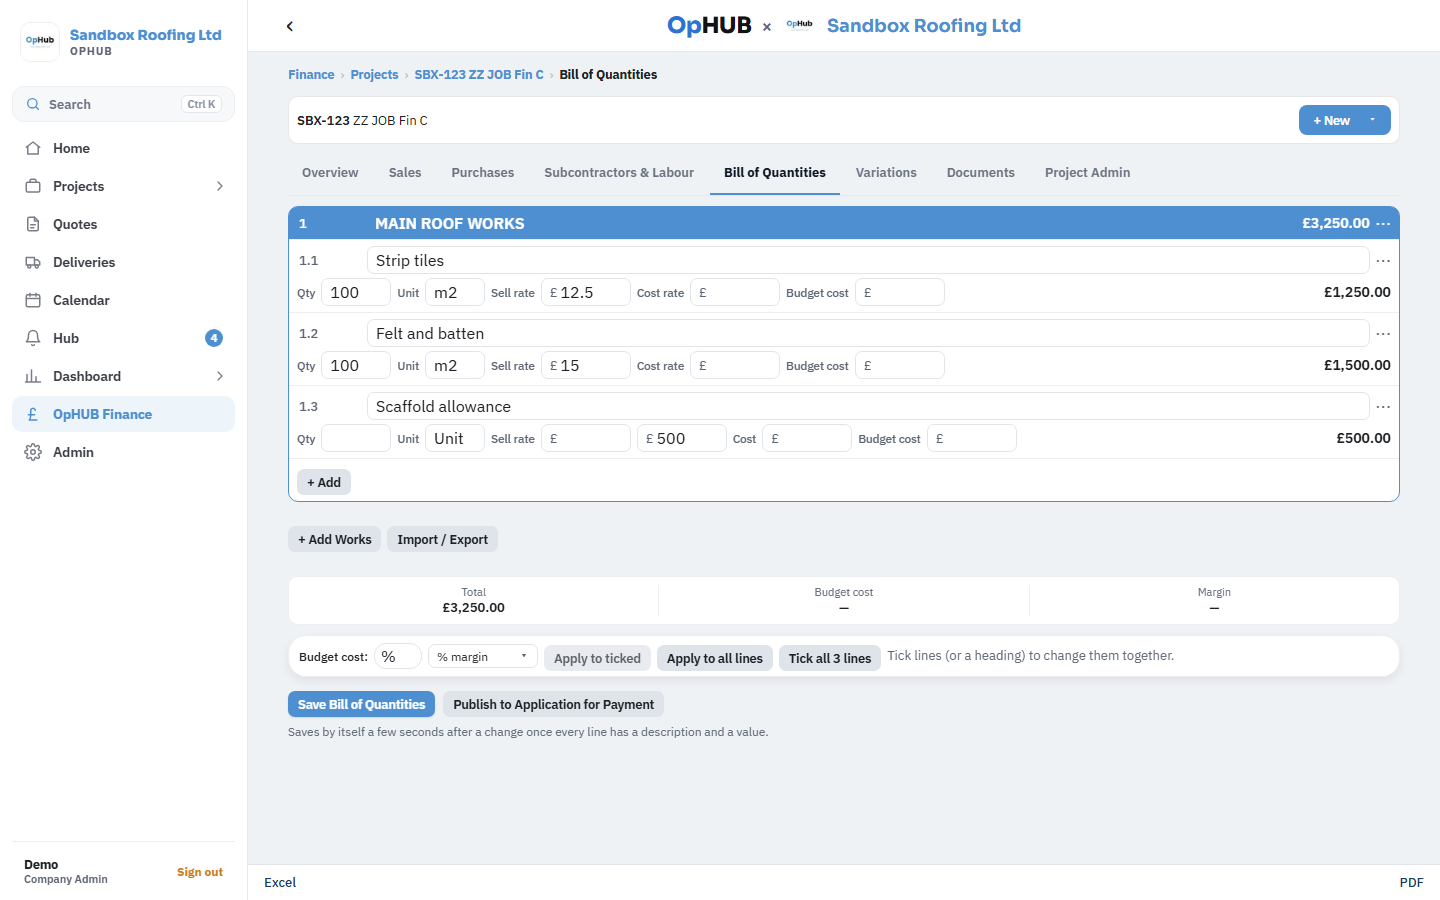
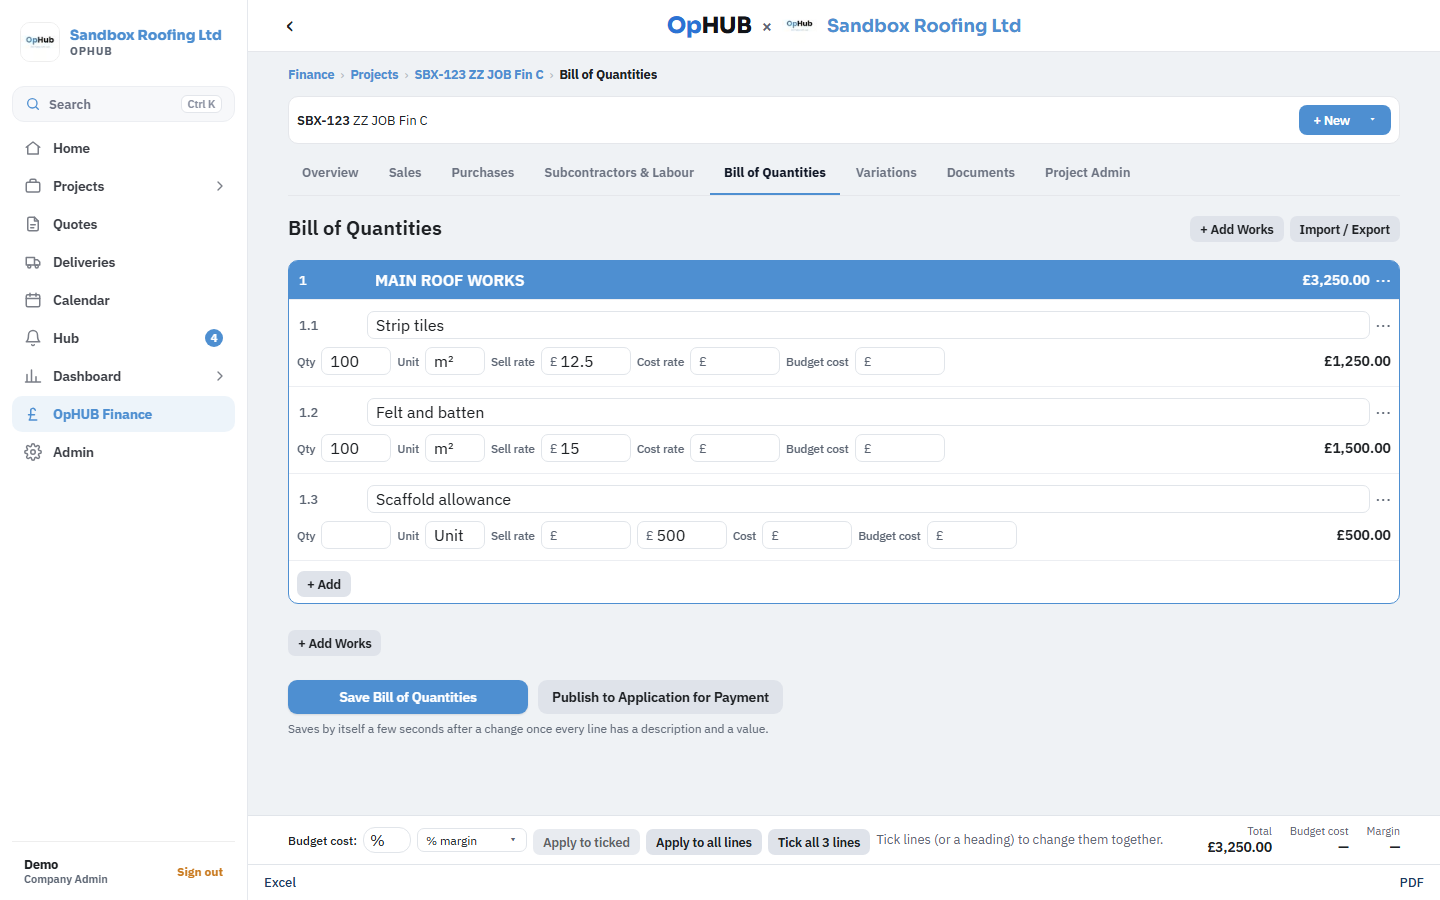
Bill of Quantities: page header, more room, budget cost as a footer line, bigger Save; typing m2 or m3 gives m² or m³. Finance bar fits on a phone.
Claude-Session: https://claude.ai/code/session_012KhfNvBEbifMJmPdX7yZfp

diff --git a/app-native/src/app/(app)/fin/job/[id]/boq.tsx b/app-native/src/app/(app)/fin/job/[id]/boq.tsx
@@ -261,10 +261,36 @@ function Editor({ id, initial, me }: { id: string; initial: Row[]; me: Profile }
           } catch { toast('Could not read that file.'); } finally { setImporting(false); }
         };
   const bqLast = async () => { const u = await openDocLink('finance-docs', (lastUp?.path as string)); if (u) viewDoc(u, lastUp?.name); else toast('Could not open the file.'); };
+  const addWorks = <Button small kind="ghost" title="+ Add Works" onPress={async () => { const k = await chooseAction('Add Works', [{ key: 'section', label: 'Section' }, { key: 'item', label: 'Item' }]); if (k) add(k); }} />;
+  // Budget cost: margin / mark-up for all or the ticked lines, and changes to the ticked lines together (902).
+  const costTools = (
+        <View style={{ flexDirection: 'row', flexWrap: 'wrap', gap: 6, alignItems: 'center' }}>
+          <Text style={{ fontWeight: '500', fontSize: 12, color: base.ink }}>Budget cost:</Text>
+          <TextInput value={pct} onChangeText={(v) => setPct(v.replace(/[^0-9.]/g, ''))} placeholder="%" keyboardType="decimal-pad" style={[box, { width: 48, height: 26, paddingVertical: 2, paddingHorizontal: 6, fontSize: 12 }]} />
+          <SelectBox value={basis} options={[['margin', '% margin'], ['markup', '% mark-up']]} onChange={setBasis} compact style={{ marginBottom: 0, width: 110 }} title="Margin or mark-up" />
+          <Button small kind="ghost" title={ticked.length ? `Apply to ${ticked.length} ticked` : 'Apply to ticked'} disabled={!ticked.length} onPress={() => applyPct(true)} />
+          <Button small kind="ghost" title="Apply to all lines" onPress={() => applyPct(false)} />
+          {ticked.length ? (
+            <>
+              <Text style={{ fontWeight: '500', color: base.ink }}>{ticked.length} ticked</Text>
+              {subs.length > 0 && <SelectBox value="" placeholder="Set plot…" title="Plot for the ticked lines" options={[['-', 'No plot'], ...subs.map((s) => [s.id, s.short] as [string, string])]} onChange={(k) => setRows((rs) => rs.map((r, j) => (ticked.includes(j) ? { ...r, sub: k === '-' ? '' : k } : r)))} style={{ marginBottom: 0, width: 170 }} />}
+              <Button small kind="ghost" title="Set unit" onPress={async () => { const u = await promptText('Unit for the ticked lines (e.g. m², nr, item)', ''); if (u !== null) setRows((rs) => rs.map((r, j) => (ticked.includes(j) ? { ...r, unit: u.trim() } : r))); }} />
+              <Button small kind="ghost" title="Clear costs" onPress={() => setRows((rs) => rs.map((r, j) => (ticked.includes(j) ? { ...r, cost: '', cost_basis: null, cost_pct: null } : r)))} />
+              <Button small kind="ghost" title="Remove" onPress={async () => { if (await confirmAsk(`Remove ${ticked.length} ticked line${ticked.length === 1 ? '' : 's'}?`, 'Remove')) setRows((rs) => rs.filter((_, j) => !ticked.includes(j))); }} />
+              <Button small kind="ghost" title="Untick all" onPress={() => tick(itemIdx, false)} />
+            </>
+          ) : itemIdx.length ? <><Button small kind="ghost" title={`Tick all ${itemIdx.length} lines`} onPress={() => tick(itemIdx, true)} /><Muted>Tick lines (or a heading) to change them together.</Muted></> : null}
+        </View>
+  );
   return (
     <View style={{ flex: 1 }}>
     <ScrollView style={{ flex: 1 }} contentContainerStyle={page(1100)} keyboardShouldPersistTaps="handled">
       <Stack.Screen options={{ title: 'Bill of Quantities' }} />
+      {/* The page's own header (Andy, 2 Nov 2026). */}
+      <View style={{ flexDirection: 'row', flexWrap: 'wrap', alignItems: 'center', gap: 10, marginTop: desk ? 6 : 0, marginBottom: desk ? 18 : 12 }}>
+        <Text style={{ flexGrow: 1, fontSize: desk ? 20 : 17, fontWeight: '600', color: base.ink }}>Bill of Quantities</Text>
+        <View style={{ flexDirection: 'row', gap: 6 }}>{addWorks}{desk && ioBtn}</View>
+      </View>
       {imp && <ImportPreview imp={imp} setImp={setImp} onUse={async (lines) => {
         if (rows.some((x) => String(x.description || '').trim()) && !(await confirmAsk('Replace the lines here with the imported breakdown?', 'Replace'))) return;
         setRows(boqRows(lines).map((r) => ({ ...r, _k: key(), sub: '' }))); setImp(null);
@@ -272,7 +298,7 @@ function Editor({ id, initial, me }: { id: string; initial: Row[]; me: Profile }
 
       {/* Each section sits in its own border (Andy, 1 Nov 2026); lines before any section don't. */}
       {rows.reduce<number[][]>((gs, r, i) => { if (r.kind === 'section' || !gs.length) gs.push([i]); else gs[gs.length - 1].push(i); return gs; }, []).map((g) => (
-      <View key={rows[g[0]]._k} style={rows[g[0]].kind === 'section' ? { borderWidth: 1.5, borderColor: t.brand1, borderRadius: 10, backgroundColor: base.card, marginBottom: 12, zIndex: rows.length - g[0] } : undefined}>
+      <View key={rows[g[0]]._k} style={rows[g[0]].kind === 'section' ? { borderWidth: 1.5, borderColor: t.brand1, borderRadius: 10, backgroundColor: base.card, marginBottom: desk ? 18 : 12, zIndex: rows.length - g[0] } : undefined}>
       {g.map((i) => {
         const r = rows[i];
         const head = r.kind === 'section' || r.kind === 'subsection';
@@ -292,7 +318,7 @@ function Editor({ id, initial, me }: { id: string; initial: Row[]; me: Profile }
         };
         return (
           <Fragment key={r._k}>
-          <View style={{ borderWidth: 1, borderColor: sec ? t.brand1 : r.kind === 'subsection' ? '#DFE3EA' : base.cardLine, borderRadius: 8, paddingVertical: head ? (desk ? 2 : 4) : desk ? 6 : 10, paddingHorizontal: 8, marginBottom: 6, backgroundColor: sec ? t.brand1 : r.kind === 'subsection' ? '#DFE3EA' : base.card, marginLeft: r.kind === 'subsection' ? 10 : 0, ...(rows[g[0]].kind === 'section' ? { marginBottom: 0, marginLeft: 0, borderRadius: 0, borderWidth: 0, borderBottomWidth: 1, borderBottomColor: base.cardLine, ...(sec ? { borderTopLeftRadius: 8, borderTopRightRadius: 8 } : null) } : null), zIndex: rows.length - i }}>
+          <View style={{ borderWidth: 1, borderColor: sec ? t.brand1 : r.kind === 'subsection' ? '#DFE3EA' : base.cardLine, borderRadius: 8, paddingVertical: head ? (desk ? 5 : 4) : desk ? 11 : 10, paddingHorizontal: 8, marginBottom: 6, backgroundColor: sec ? t.brand1 : r.kind === 'subsection' ? '#DFE3EA' : base.card, marginLeft: r.kind === 'subsection' ? 10 : 0, ...(rows[g[0]].kind === 'section' ? { marginBottom: 0, marginLeft: 0, borderRadius: 0, borderWidth: 0, borderBottomWidth: 1, borderBottomColor: base.cardLine, ...(sec ? { borderTopLeftRadius: 8, borderTopRightRadius: 8 } : null) } : null), zIndex: rows.length - i }}>
             <View style={{ flexDirection: 'row', gap: 6, alignItems: 'center' }}>
               {selecting && <Pressable hitSlop={6} focusable={false} accessibilityLabel="Tick" onPress={() => (head ? tick(grp, !on) : set(i, '_sel', !on))}><Text style={{ fontSize: 17, color: head ? ink : base.ink }}>{on ? '☑' : '☐'}</Text></Pressable>}
               {editRefs ? <TextInput value={refs[i]} onChangeText={(v) => set(i, 'ref', v)} placeholder="Ref" placeholderTextColor={head ? ink : undefined} style={[box, slim, { width: desk ? 64 : head ? 30 : 40 }, head && headBox, !desk && { fontSize: 11 }]} /> : <Text numberOfLines={1} accessibilityLabel="Ref" style={{ width: desk ? 64 : head ? 30 : 40, fontSize: desk ? 13 : 11, fontWeight: '500', color: head ? ink : base.slate, paddingHorizontal: 2 }}>{refs[i]}</Text>}
@@ -306,7 +332,7 @@ function Editor({ id, initial, me }: { id: string; initial: Row[]; me: Profile }
               }}><Text style={{ fontSize: 18, color: head ? ink : base.slate }}>⋯</Text></Pressable>
             </View>
             {head ? null : desk ? (
-              <View style={{ flexDirection: 'row', gap: 6, marginTop: 4, flexWrap: 'wrap', alignItems: 'center' }}>
+              <View style={{ flexDirection: 'row', gap: 6, marginTop: 8, flexWrap: 'wrap', alignItems: 'center' }}>
                 <Text style={lab}>Qty</Text>
                 <TextInput ref={(el) => { qtyBox.current[r._k] = el as unknown as { focus: () => void } | null; }} value={String(r.qty ?? '')} onChangeText={(v) => set(i, 'qty', v)} accessibilityLabel="Qty" keyboardType="decimal-pad" style={[box, slim, { width: 70 }]} />
                 <Text style={lab}>Unit</Text>
@@ -352,47 +378,36 @@ function Editor({ id, initial, me }: { id: string; initial: Row[]; me: Profile }
       })}
       </View>
       ))}
-      <View style={{ flexDirection: 'row', gap: 6, flexWrap: 'wrap', marginTop: 8, marginBottom: 24 }}>
-        <Button small kind="ghost" title="+ Add Works" onPress={async () => { const k = await chooseAction('Add Works', [{ key: 'section', label: 'Section' }, { key: 'item', label: 'Item' }]); if (k) add(k); }} />
-        {desk && ioBtn}
-      </View>
+      {rows.length > 0 && <View style={{ flexDirection: 'row', marginTop: 4, marginBottom: 20 }}>{addWorks}</View>}
+      {rows.length === 0 && <FinRow title="No lines yet" sub="Use + Add Works, or Import / Export to bring in a breakdown." />}
+      {/* On a phone the summary and tools stay in the page; on a laptop they're the footer line. */}
+      {!desk && rows.length > 0 && <>
       {/* The Bill's summary sits at the bottom; each section's total is on its heading (Andy, 1 Nov 2026). */}
         <View style={{ flexDirection: 'row', backgroundColor: base.card, borderWidth: 1, borderColor: base.cardLine, borderRadius: 10, paddingVertical: 8, marginBottom: 10 }}>
           {[['Total', money(total)], ['Budget cost', costTotal ? money(costTotal) : '—'], ['Margin', costTotal && total ? `${Math.round(((total - costTotal) / total) * 1000) / 10}%` : '—']].map(([l, v], n) => (
             <View key={l} style={{ flex: 1, alignItems: 'center', borderLeftWidth: n ? 1 : 0, borderLeftColor: base.cardLine }}><Text style={{ fontSize: 11, color: base.slate }}>{l}</Text><Text style={{ fontSize: 13, fontWeight: '600', color: base.ink }}>{v}</Text></View>
           ))}
         </View>
-      {/* Budget cost: margin / mark-up for all or the ticked lines, and changes to the ticked lines together (902). */}
+      </>}
       {!desk && <View style={{ flexDirection: 'row', gap: 6, marginBottom: 8 }}><Button small kind="ghost" title={`Budget cost tools ${bulkOpen ? '▴' : '▾'}`} onPress={() => setBulkOpen(!bulkOpen)} />{ioBtn}</View>}
-      {(desk || bulkOpen) && (
-      <Card style={{ paddingVertical: 5, paddingHorizontal: 10 }}>
-        <View style={{ flexDirection: 'row', flexWrap: 'wrap', gap: 6, alignItems: 'center' }}>
-          <Text style={{ fontWeight: '500', fontSize: 12, color: base.ink }}>Budget cost:</Text>
-          <TextInput value={pct} onChangeText={(v) => setPct(v.replace(/[^0-9.]/g, ''))} placeholder="%" keyboardType="decimal-pad" style={[box, { width: 48, height: 26, paddingVertical: 2, paddingHorizontal: 6, fontSize: 12 }]} />
-          <SelectBox value={basis} options={[['margin', '% margin'], ['markup', '% mark-up']]} onChange={setBasis} compact style={{ marginBottom: 0, width: 110 }} title="Margin or mark-up" />
-          <Button small kind="ghost" title={ticked.length ? `Apply to ${ticked.length} ticked` : 'Apply to ticked'} disabled={!ticked.length} onPress={() => applyPct(true)} />
-          <Button small kind="ghost" title="Apply to all lines" onPress={() => applyPct(false)} />
-          {ticked.length ? (
-            <>
-              <Text style={{ fontWeight: '500', color: base.ink }}>{ticked.length} ticked</Text>
-              {subs.length > 0 && <SelectBox value="" placeholder="Set plot…" title="Plot for the ticked lines" options={[['-', 'No plot'], ...subs.map((s) => [s.id, s.short] as [string, string])]} onChange={(k) => setRows((rs) => rs.map((r, j) => (ticked.includes(j) ? { ...r, sub: k === '-' ? '' : k } : r)))} style={{ marginBottom: 0, width: 170 }} />}
-              <Button small kind="ghost" title="Set unit" onPress={async () => { const u = await promptText('Unit for the ticked lines (e.g. m², nr, item)', ''); if (u !== null) setRows((rs) => rs.map((r, j) => (ticked.includes(j) ? { ...r, unit: u.trim() } : r))); }} />
-              <Button small kind="ghost" title="Clear costs" onPress={() => setRows((rs) => rs.map((r, j) => (ticked.includes(j) ? { ...r, cost: '', cost_basis: null, cost_pct: null } : r)))} />
-              <Button small kind="ghost" title="Remove" onPress={async () => { if (await confirmAsk(`Remove ${ticked.length} ticked line${ticked.length === 1 ? '' : 's'}?`, 'Remove')) setRows((rs) => rs.filter((_, j) => !ticked.includes(j))); }} />
-              <Button small kind="ghost" title="Untick all" onPress={() => tick(itemIdx, false)} />
-            </>
-          ) : itemIdx.length ? <><Button small kind="ghost" title={`Tick all ${itemIdx.length} lines`} onPress={() => tick(itemIdx, true)} /><Muted>Tick lines (or a heading) to change them together.</Muted></> : null}
-        </View>
-      </Card>
-      )}
+      {!desk && bulkOpen && <Card style={{ paddingVertical: 5, paddingHorizontal: 10 }}>{costTools}</Card>}
 
-            <View style={{ flexDirection: 'row', gap: 8, flexWrap: 'wrap', alignItems: 'center' }}>
-        <Button small busy={busy} title="Save Bill of Quantities" onPress={() => void save()} />
-        <Button small kind="ghost" title="Publish to Application for Payment" onPress={async () => { await save(); if (snap(latest.current) !== saved.current) return; router.push(`/fin/job/${id}/application/new` as never); }} />
+            <View style={{ flexDirection: 'row', gap: 10, flexWrap: 'wrap', alignItems: 'center' }}>
+        <View style={{ minWidth: desk ? 240 : 0, flexGrow: desk ? 0 : 1 }}><Button busy={busy} title="Save Bill of Quantities" onPress={() => void save()} /></View>
+        <Button kind="ghost" title="Publish to Application for Payment" onPress={async () => { await save(); if (snap(latest.current) !== saved.current) return; router.push(`/fin/job/${id}/application/new` as never); }} />
       </View>
       <Muted style={{ marginTop: 6, fontSize: 12 }}>Saves by itself a few seconds after a change once every line has a description and a value.{autoNote ? ` ${autoNote}` : ''}</Muted>
-      {rows.length === 0 && <FinRow title="No lines yet" sub="Add sections and items, then save." />}
     </ScrollView>
+    {desk && rows.length > 0 && (
+      <View accessibilityLabel="Budget cost footer" style={{ backgroundColor: base.card, borderTopWidth: 1, borderTopColor: base.line, paddingHorizontal: 40, paddingVertical: 8, flexDirection: 'row', flexWrap: 'wrap', alignItems: 'center', justifyContent: 'space-between', gap: 10 }}>
+        <View style={{ flexShrink: 1 }}>{costTools}</View>
+        <View style={{ flexDirection: 'row', gap: 18 }}>
+          {[['Total', money(total)], ['Budget cost', costTotal ? money(costTotal) : '—'], ['Margin', costTotal && total ? `${Math.round(((total - costTotal) / total) * 1000) / 10}%` : '—']].map(([l, v]) => (
+            <View key={l} style={{ alignItems: 'flex-end' }}><Text style={{ fontSize: 11, color: base.slate }}>{l}</Text><Text style={{ fontSize: 13.5, fontWeight: '600', color: base.ink }}>{v}</Text></View>
+          ))}
+        </View>
+      </View>
+    )}
     {rows.length > 0 && <ThinExportBar onExcel={() => void exportBoq('x')} onPdf={() => void exportBoq('p')} />}
     </View>
   );

diff --git a/tools/test-harness/jobtest-parts/boqbtn1.js b/tools/test-harness/jobtest-parts/boqbtn1.js
@@ -1,13 +1,32 @@
-// Bill of Quantities on a laptop: Import / Export sits beside + Add Works, on Sandbox's ZZ job. Changes nothing.
+// Bill of Quantities layout on Sandbox: with lines and empty, laptop and phone. Changes nothing.
 module.exports = async ({as, step}) => {
   const a = await as('admin');
+  const q = (x) => a.page.getByText(x, {exact: true}).locator('visible=true');
   const [J] = await a.get('sites?select=id&name=eq.ZZ%20JOB%20Fin%20C&limit=1');
+  const [E] = await a.get('sites?select=id&name=eq.ZZ%20JOB%20Regular&limit=1');
   await a.page.setViewportSize({width: 1440, height: 900});
-  await step('Import / Export beside + Add Works', async () => {
-    await a.go('/fin/job/' + J.id + '/boq', 7000); await a.page.waitForTimeout(3000);
-    const add = a.page.getByText('+ Add Works', {exact: true}).locator('visible=true').first(), io = a.page.getByText('Import / Export', {exact: true}).locator('visible=true').first();
-    await add.scrollIntoViewIfNeeded(); await a.page.waitForTimeout(400); await a.shot('boq');
-    const x = await add.boundingBox(), y = await io.boundingBox();
-    return {ok: Math.abs(x.y - y.y) < 3 && y.x > x.x, note: 'same row ' + Math.round(x.y) + '/' + Math.round(y.y)};
+  await step('With lines: header, buttons, footer', async () => {
+    await a.go('/fin/job/' + J.id + '/boq', 7000); await a.page.waitForTimeout(3000); await a.shot('boq');
+    const foot = await a.page.getByLabel('Budget cost footer').boundingBox();
+    const h = await q('Bill of Quantities').count(), io = await q('Import / Export').count(), add = await q('+ Add Works').count();
+    return {ok: !!foot && foot.y > 700 && h >= 2 && io === 1 && add === 2, note: 'footer at ' + Math.round(foot.y) + ', add ' + add + ', io ' + io};
+  });
+  await step('Typing m2 gives m²', async () => {
+    const box = a.page.getByLabel('Unit').nth(2);
+    await box.fill('m'); await a.page.waitForTimeout(300); await a.shot('unit');
+    const offered = await a.page.getByText('m²', {exact: true}).locator('visible=true').count();
+    await box.fill('m2'); await a.page.waitForTimeout(200); const v2 = await box.inputValue();
+    await box.fill('m3'); await a.page.waitForTimeout(200); const v3 = await box.inputValue();
+    await box.fill(''); await a.page.waitForTimeout(200);
+    return {ok: offered > 0 && v2 === 'm²' && v3 === 'm³', note: 'offered ' + offered + ', ' + v2 + ', ' + v3};
+  });
+  await step('Empty page', async () => {
+    await a.go('/fin/job/' + E.id + '/boq', 7000); await a.page.waitForTimeout(3000); await a.shot('empty');
+    return {ok: (await q('No lines yet').count()) === 1 && (await q('+ Add Works').count()) === 1, note: 'empty state'};
+  });
+  await step('Phone', async () => {
+    await a.page.setViewportSize({width: 375, height: 812}); await a.go('/fin/job/' + J.id + '/boq', 7000); await a.page.waitForTimeout(2500); await a.shot('phone');
+    await a.page.setViewportSize({width: 1440, height: 900});
+    return {ok: (await a.page.getByText(/^Budget cost tools/).count()) === 1, note: 'tools button'};
   });
 };

diff --git a/app-native/src/components/UnitField.tsx b/app-native/src/components/UnitField.tsx
@@ -7,13 +7,17 @@ import { base } from '@/theme/theme';
 
 export const DEFAULT_UNITS = ['nr', 'm', 'm²', 'm³', 'lm', 'item', 'sum', 'hr', 'day', 'wk', 'roll', 'bag', 'box', 'pack', 'load', 't', 'kg', 'ltr'];
 
+// Typing m2 or m3 gives m² or m³ (Andy, 2 Nov 2026); lines imported as m2 show the same way.
+const tidy = (v: string) => (/^m2$/i.test(v.trim()) ? 'm²' : /^m3$/i.test(v.trim()) ? 'm³' : v);
+const plain = (v: string) => v.trim().toLowerCase().replace(/²/g, '2').replace(/³/g, '3');
+
 export function UnitField({ value, onChangeText, units, onEdit, style, onFocus, onBlur }: {
   value: string; onChangeText: (v: string) => void; units: string[]; onEdit: () => void; style?: StyleProp<TextStyle>; onFocus?: () => void; onBlur?: () => void;
 }) {
   const [open, setOpen] = useState(false);
   const [hi, setHi] = useState(-1);
-  const q = value.trim().toLowerCase();
-  const list = units.filter((u) => !q || (u.toLowerCase().includes(q) && u.toLowerCase() !== q));
+  const q = plain(value);
+  const list = units.filter((u) => !q || (plain(u).includes(q) && plain(u) !== q));
   const count = list.length + 1; // the last row is Edit saved units
   // A click in the list mustn't take focus from the box, or the line would close before the click lands.
   const box = useRef<View>(null);
@@ -30,8 +34,8 @@ export function UnitField({ value, onChangeText, units, onEdit, style, onFocus, 
   };
   return (
     <View style={{ zIndex: open ? 60 : 0 }}>
-      <TextInput value={value} placeholder="Unit" accessibilityLabel="Unit" autoComplete="off" style={style}
-        onChangeText={(v) => { onChangeText(v); setOpen(true); setHi(-1); }}
+      <TextInput value={tidy(value)} placeholder="Unit" accessibilityLabel="Unit" autoComplete="off" style={style}
+        onChangeText={(v) => { onChangeText(tidy(v)); setOpen(true); setHi(-1); }}
         onFocus={() => { setOpen(true); onFocus?.(); }}
         onBlur={() => { setOpen(false); setHi(-1); onBlur?.(); }}
         onKeyPress={(e) => {

diff --git a/app-native/src/components/AppBar.tsx b/app-native/src/components/AppBar.tsx
@@ -128,10 +128,10 @@ export function AppBar({ title, onBack, home, right, noHistory }: { title?: stri
         )}
         </View>
         <Pressable onPress={() => router.navigate('/fin' as never)} accessibilityRole="link" accessibilityLabel="Finance overview" style={{ flex: 1, minWidth: 0, flexDirection: 'row', alignItems: 'center', justifyContent: 'center', gap: 10 }}>
-          <Text style={[heading(800), { fontSize: 22.5, letterSpacing: -0.3, color: '#111318' }]}><Text style={{ color: '#2B73D4' }}>Op</Text>HUB</Text>
-          <Text style={{ fontSize: 17.5, color: base.slate, fontWeight: '600' }}>×</Text>
-          {org?.logo_path && <StorageImage bucket="org-logos" path={org.logo_path} style={{ width: 35, height: 35, resizeMode: 'contain' }} />}
-          <Text numberOfLines={1} style={[heading(700), { flexShrink: 1, fontSize: 18, color: t.brand1 }]}>{org?.name || ''}</Text>
+          <Text style={[heading(800), { fontSize: desk ? 22.5 : 18, letterSpacing: -0.3, color: '#111318' }]}><Text style={{ color: '#2B73D4' }}>Op</Text>HUB</Text>
+          <Text style={{ fontSize: desk ? 17.5 : 14, color: base.slate, fontWeight: '600' }}>×</Text>
+          {org?.logo_path && <StorageImage bucket="org-logos" path={org.logo_path} style={{ width: desk ? 35 : 26, height: desk ? 35 : 26, resizeMode: 'contain' }} />}
+          <Text numberOfLines={1} style={[heading(700), { flexShrink: 1, fontSize: desk ? 18 : 14, color: t.brand1 }]}>{org?.name || ''}</Text>
         </Pressable>
         <View style={{ minWidth: 34, alignItems: 'flex-end' }}>{right}</View>
       </View>
